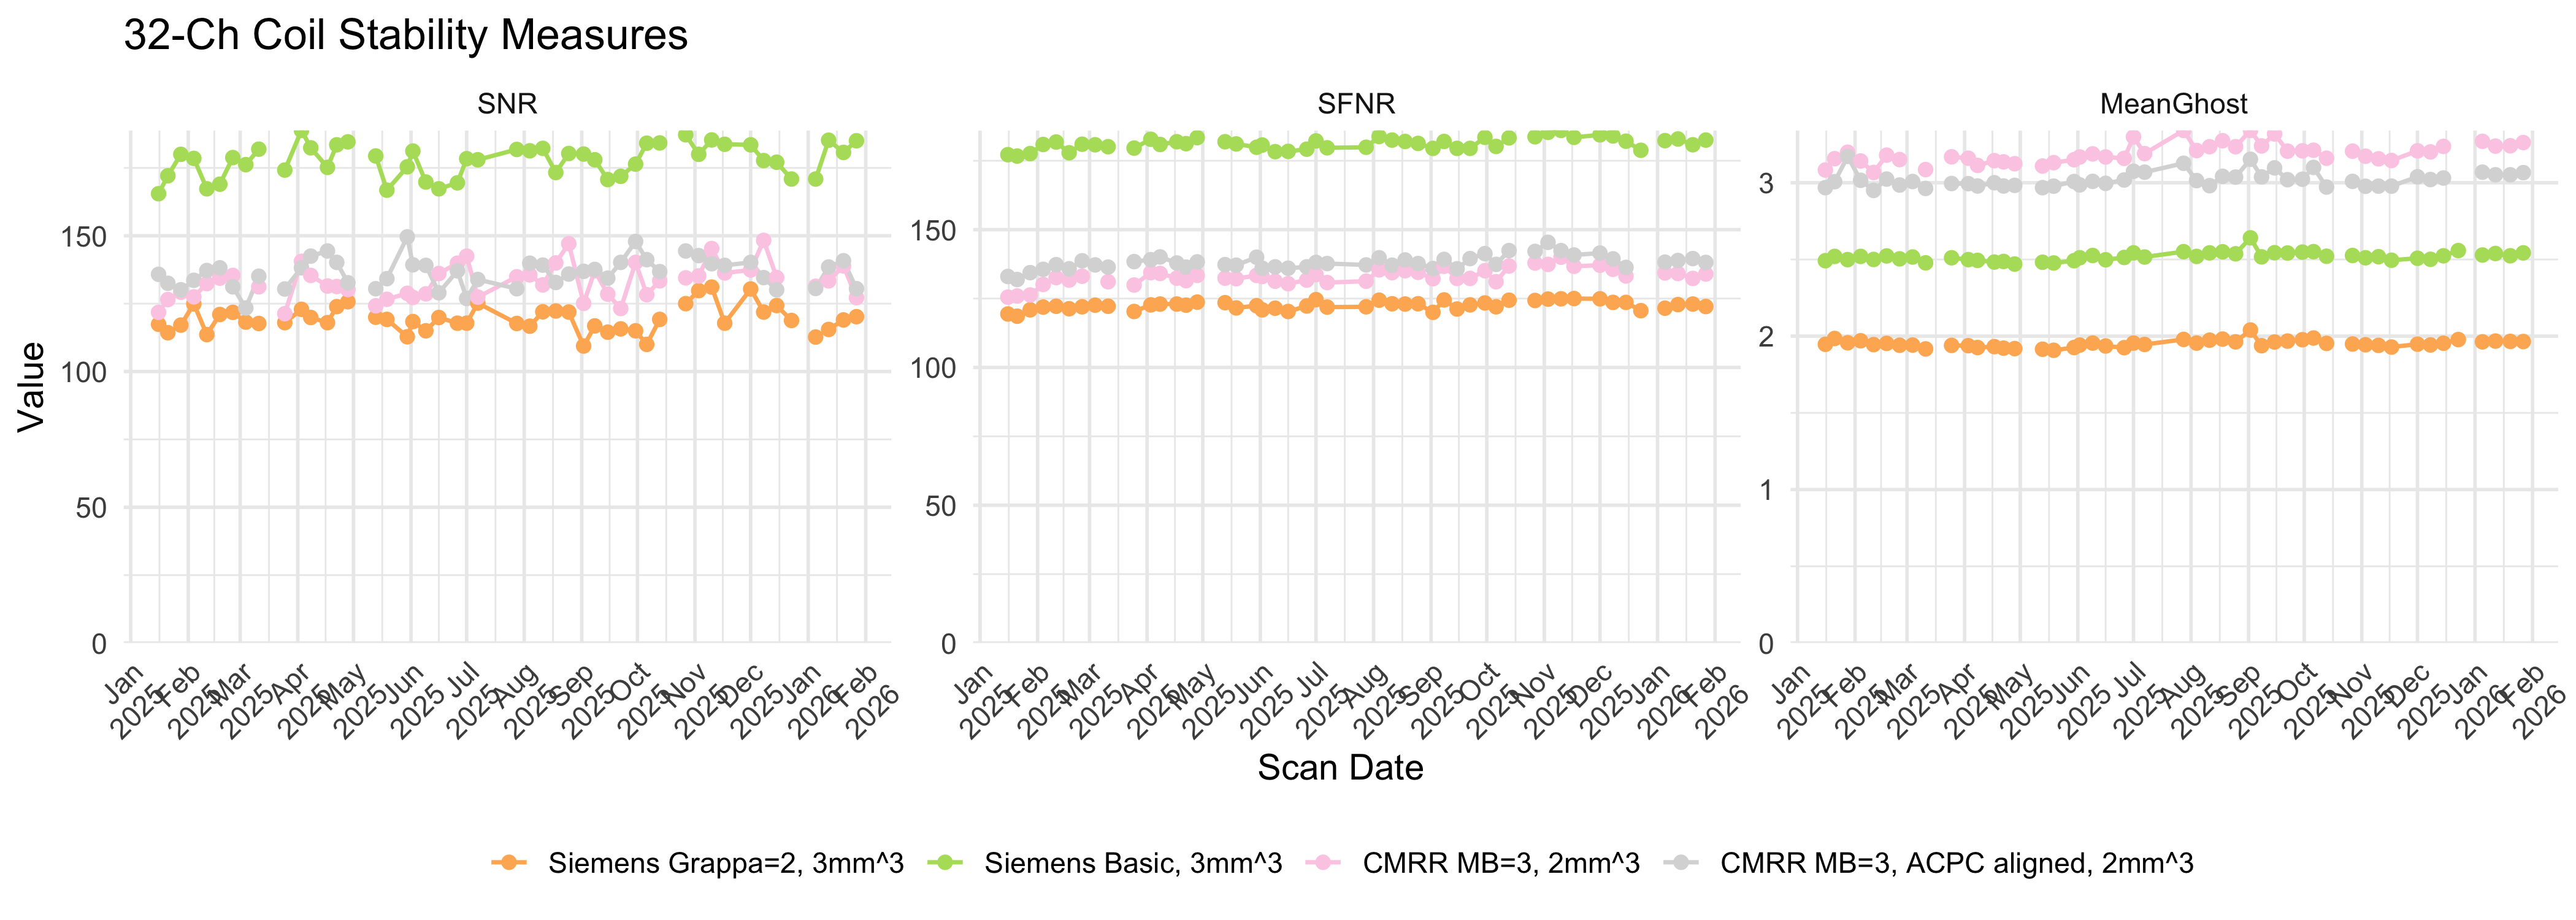
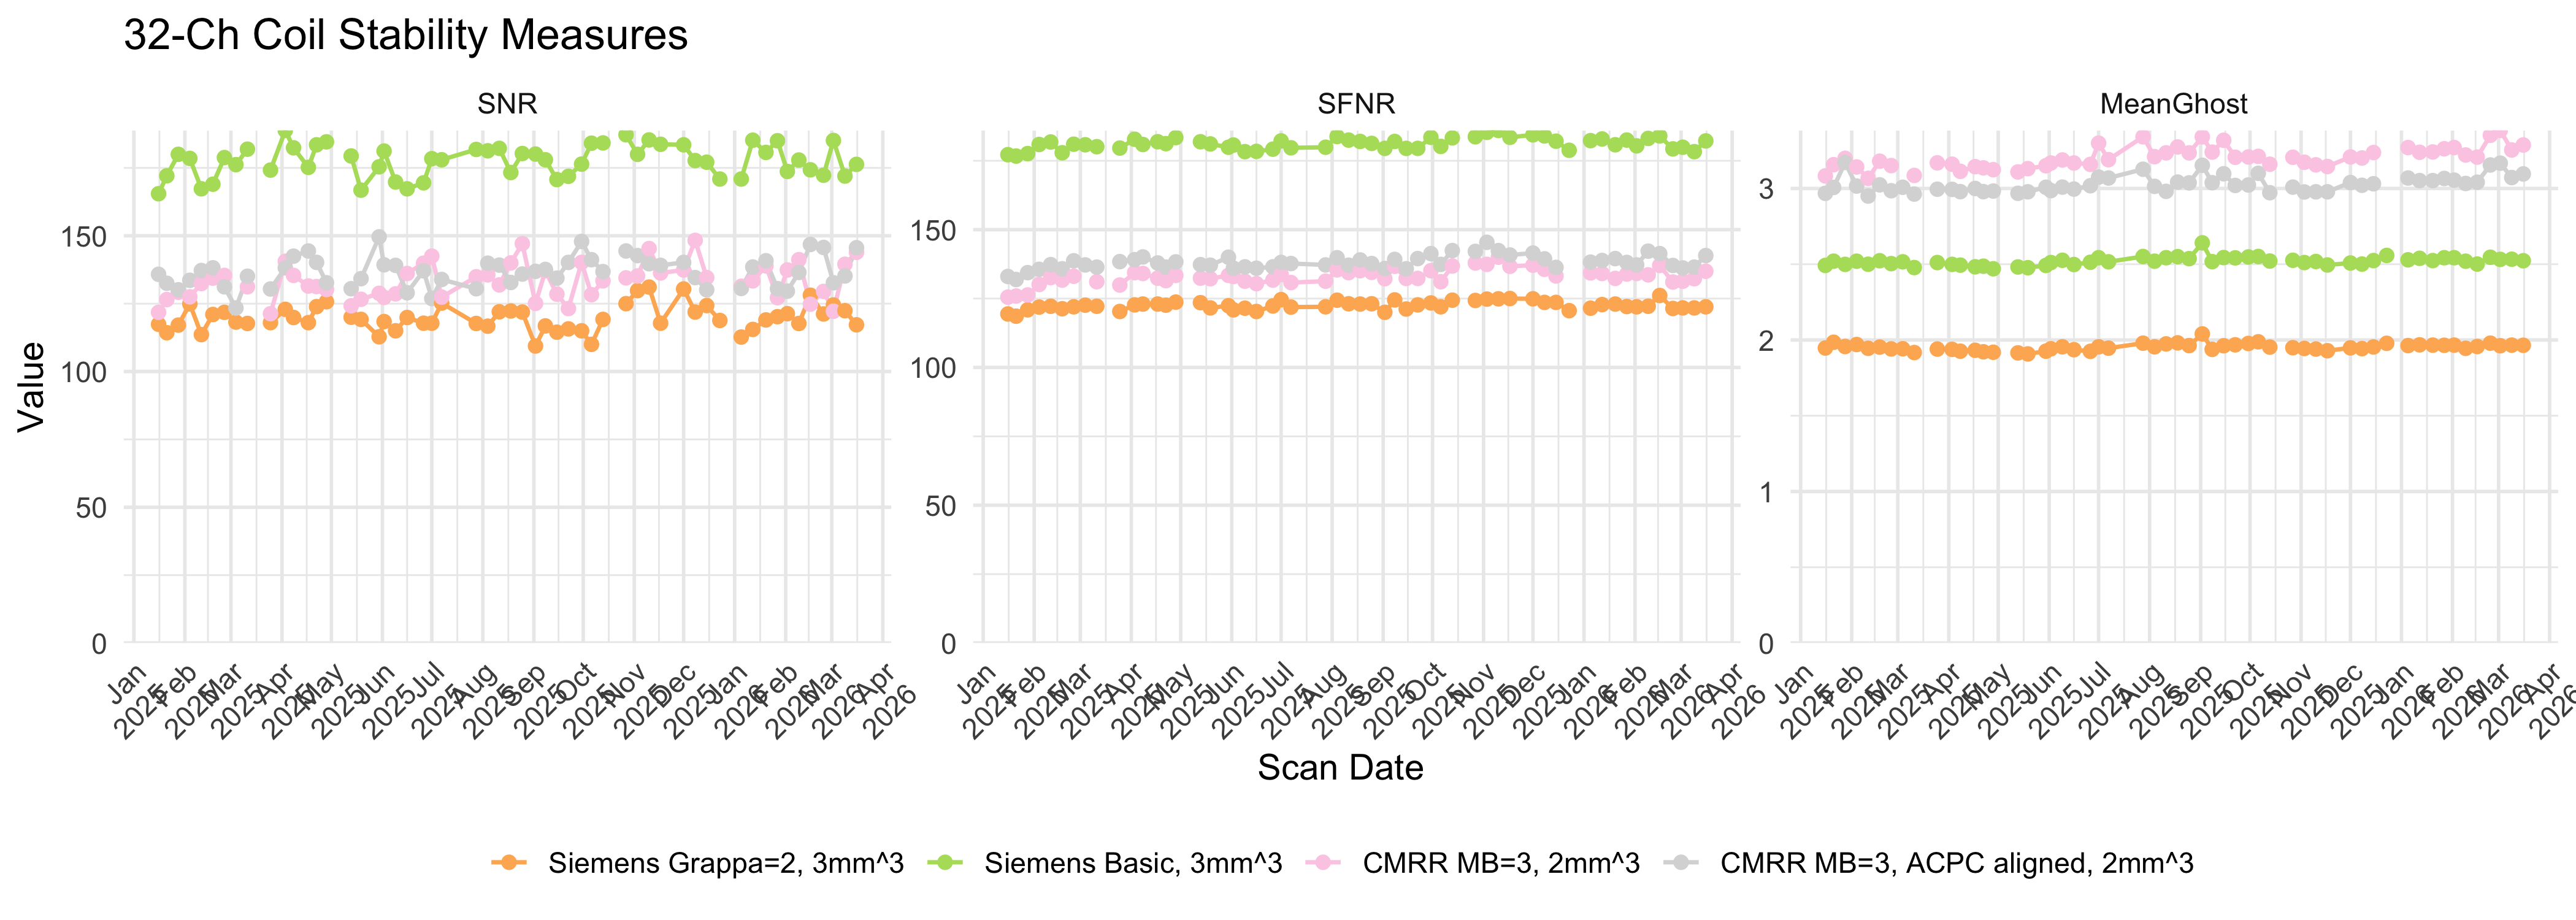
Auto update from stability script

Changed region(s): [[0.0312, 0.1227, 1.0, 0.7973]]

diff --git a/Summary.html b/Summary.html
@@ -11,5 +11,6 @@
   <img src="Graphs/64-Ch_summary.png" alt="64-channel head coil summary">
   <img src="Graphs/32-Ch_summary.png" alt="32-channel head coil summary">
   <img src="Graphs/20-Ch_summary.png" alt="20-channel head coil summary">
+  <img src="Graphs/gradient_coil_temps.png" alt="Gradient coil temps">
 </body>
 </html>

diff --git a/README.md b/README.md
@@ -3,3 +3,19 @@
 We have implemented a weekly quality assurance (QA) protocol in which we assess the stability of the fMRI signal from the Cima.X scanner using the 64-, 32-, and 20-channel head coils and both standard Siemens and CMRR multi-band EPI pulse sequences (denoted "Siemens" and "CMRR" in the figures above). The scan protocol is based on the recommendation of John Pyles and colleagues (Pyles et al, OHBM 2020) found here: [https://sites.google.com/view/mri-facility-qa](https://sites.google.com/view/mri-facility-qa). Scan parameters are typical of research protocols for TR, TE, and resolution. All scans in the plots above are in straight axial orientation unless specified as AC-PC aligned. Imaging is done on a [FUNSTAR phantom](https://goldstandardphantoms.com/products/funstar/) in the 64- and 32-channel coils using custom 3D-printed phantom holders. Stability is assessed using the Functional Imaging Federated Informatics Research Environment (FBIRN; see Friedman & Glover, 2006) QA metrics, which includes temporal signal to noise ratio (SNR), signal-to-fluctuation noise ratio (SFNR), and mean ghost percentage. QA metrics are assessed using a docker-ized version of the FBIRN QA scripts provided by Dr. Chandana Kodiweera of the Dartmouth Brain Imaging Center found here: [https://hub.docker.com/r/diffdocker/fbirnqa](https://hub.docker.com/r/diffdocker/fbirnqa).
 
 For more on the weekly QA protocol, see this [blog post](https://mindcore.sas.upenn.edu/2025/04/08/mri-stability-scanning/).
+
+## Updated Results
+
+### Gradient Coil Temperatures
+![Gradient temperature plot](Graphs/gradient_temps.png)
+
+### 64-channel coil summary
+![Stability plot](Graphs/64-Ch_summary.png)
+
+### 32-channel coil summary
+![Stability plot](Graphs/32-Ch_summary.png)
+
+### 20-channel coil summary
+![Stability plot](Graphs/20-Ch_summary.png)
+
+